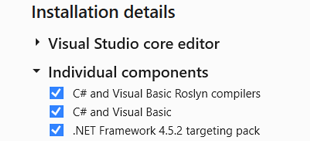
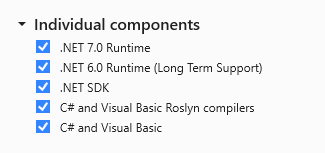
Update docs info to the latest .NET 7

Changed region(s): [[0.0871, 0.2553, 0.8419, 0.9929], [0.0581, 0.0284, 0.6387, 0.227]]

diff --git a/manual/scripting/debugging/visual-studio.md b/manual/scripting/debugging/visual-studio.md
@@ -2,12 +2,13 @@
 
 ![Visual Studio Extension](../../get-started/media/vs.jpg)
 
-You can download Visual Studio [here](https://www.visualstudio.com). We support **Visual Studio 2017, Visual Studio 2019, Visual Studio 2022**.
+You can download Visual Studio [here](https://www.visualstudio.com). We support **Visual Studio 2022** (older versions still work with Flax but the latest .NET SDK 7 doesn't support them).
 
 Flax requries the following components to be installed in order to support C# scripts debugging:
 * C# and Visual Basic Roslyn Compilers
 * C# and Visual Basic
-* .NET Framework 4.5.2 targeting pack (or any other newer framework)
+* .NET 7.0 Runtime (already required by Flax Editor)
+* .NET SDK (already required by Flax Editor)
 
 ![Visual Studio Components for C#](media/vs-components-cs.png)
 
@@ -17,20 +18,14 @@ For C++ scripts debugging platform-dependant toolset is required:
 
 ![Visual Studio Components for C++](media/vs-components-cpp.png)
 
-### 1. Install Visual Studio plugin
-
-Download and install [Flax Engine Tools for Visual Studio](https://marketplace.visualstudio.com/items?itemName=Flax.FlaxVS) which is requried to debug game scripts right inside the VS.
-
-![Flax VS](media/flax-vs.jpg)
-
-### 2. Attach script to actor
+### 1. Attach script to actor
 
 To debug script code it has to be attached to the actor in the scene.
 Simply drag and drop it into the selected actor properties area.
 
 ![Add script](../media/attach-script.gif)
 
-### 3. Open script in Visual Studio
+### 2. Open script in Visual Studio
 
 Double-click on a script item and wait for the IDE to show up.
 
@@ -40,27 +35,33 @@ Ensure to pick a proper solution configuration eg. **Editor.Development** and se
 
 ![Visual Studio Configuration](media/vs-configuration-picker.jpg)
 
-### 4. Add a breakpoint
+### 3. Add a breakpoint
 
 Click on a left side of the code editor to assign a breakpoint to the line. Red dot should be added as shown in the picture below.
 
 ![Add a breakpoint](media/debug-vs-2.jpg)
 
-### 5. Attach to Flax
+### 4. Attach to Flax
 
-Press the `Attach to Flax` button with a green arrow to connect Visual Studio to Flax Editor. Visual Studio should enter a debugging mode and the bottom of the IDE will remain orange. This signifies Visual Studio is ready for debugging.
+Press **Attach to Process** under **Debug** menu in Visual Studio.
 
-![Script in Visual Studio](media/debug-vs-3.jpg)
+![Debugging in Visual Studio](media/vs-attach-to-process-1.png)
+
+It will open an additional window where you can select a process to debug (eg. Flax Editor, cooked game, or game running on a DevKit). After you select the target process click **Attach**. You can search processes by name by using *Filter process* text field or use *Select Window* tool. In most cases, you want to select `FlaxEditor.exe` process that is running a project which you want to debug.
+
+![Debugging in Visual Studio](media/vs-attach-to-process-2.png)
+
+Visual Studio should enter a debugging mode and the bottom of the IDE will remain orange. This signifies Visual Studio is ready for debugging.
 
 ![Debugging in Visual Studio](media/debug-vs-6.jpg)
 
-### 6. Start a game
+### 5. Start a game
 
 Go back to the Flax Editor and press the `Play` button to start a game. Then script *OnUpdate()* function will be called and assigned breakpoint hit.
 
 ![Script in Visual Studio](media/debug-vs-4.jpg)
 
-### 7. Debug your code
+### 6. Debug your code
 
 Now you can use all Visual Studio debugging features to verify state of the variables and test your code.
 

diff --git a/manual/scripting/index.md b/manual/scripting/index.md
@@ -21,8 +21,8 @@ To learn more about build tools and infrastructure see [Flax.Build](../editor/fl
 
 You can write scripts in **C#** and add them to scene objects. To learn more about it see the pages in this section. Most of the documentation related to scripting covers C# to implement various gameplay logic. If you need help with learning C# see [this page](http://www.letmegooglethat.com/?q=C%23+tutorial).
 
-Flax uses [Mono](https://www.mono-project.com) to load, compile and execute C# scripts.
-Currently the newest **C# 7.3** version is fully supported (with .Net Framework 4.5.2). Flax Editor ships with C# Roslyn  Compiler - no need to install any external tools to compile and run C# code.
+Flax uses [.NET](https://dotnet.microsoft.com/en-us) to load, compile and execute C# scripts.
+Currently the newest **C# 11** version is fully supported. Flax Editor requires [.NET SDK 7](https://dotnet.microsoft.com/en-us/download/dotnet/7.0) to be installed on a system.
 
 If you want to use custom .NET libraries use build scripts to reference them as [shown here](tutorials/use-third-party-library.md).
 

diff --git a/manual/editor/flax-build/index.md b/manual/editor/flax-build/index.md
@@ -24,7 +24,7 @@ This documentation section covers most of the topics related to Flax.Build tool.
 
 The main source of build configuration are **.Build.cs** files located in the project `Source` directory. Written in **C#**, scripts can contain targets, modules, SDKs, or other utilities used for building. When generating project scripts files, all build scripts are included in **Rules** project which defines the build rules and can be explored with code IDE.
 
-Build scripts are using C# 7.3 with full .Net 4.5.2 support. Additionally Flax.Build assembly is referenced with many useful utilities to use during build setup like:
+Build scripts are using C# 11 with full .NET 7 support. Additionally Flax.Build assembly is referenced with many useful utilities to use during build setup like:
 * `CommandLine` attribute for command line parsing
 * `Log` utility with info/errors logging capabilities (to log file and to console output)
 * `Tokenizer` class for pasing code as tokens

diff --git a/manual/get-started/linux.md b/manual/get-started/linux.md
@@ -20,10 +20,18 @@ For developers using Flax Editor on Linux platforms the requirements are:
 | Hard drive space | 1 GB minimum |
 | GPU | **Vulkan required** |
 
-Flax Editor needs `curl` and `mono` libs on the system:
+Flax Editor needs:
+
+* `curl` lib on the system:
 
 ```
-apt-get install -y curl libcurl4-gnutls-dev mono-devel
+apt-get install -y curl libcurl4-gnutls-dev
+```
+
+*  `.Net 7 SDK` ([https://dotnet.microsoft.com/en-us/download/dotnet/7.0](https://dotnet.microsoft.com/en-us/download/dotnet/7.0)). Setup can be verified with:
+
+```
+dotnet --version
 ```
 
 *On Fedora you might need additional fix for invalid lib linkage: `sudo ln -s /usr/lib64/libcurl.so.4 /usr/lib64/libcurl-gnutls.so.4`.

diff --git a/manual/get-started/requirements.md b/manual/get-started/requirements.md
@@ -27,7 +27,9 @@ The launcher will check and begin installation if it is missing, however if your
 
 Flax Launcher requires [Microsoft .NET Framework 4.5.2](https://www.microsoft.com/en-us/download/details.aspx?id=42642) or higher.
 
-We also recommend using Visual Studio 2019 or 2022 for writing code.
+Flax Editor requires [.NET SDK 7](ttps://dotnet.microsoft.com/en-us/download/dotnet/7.0).
+
+We also recommend using Visual Studio 2022 for writing code.
 You can download the free community edition [here](https://www.visualstudio.com/downloads/).
 
 ## GPU Drivers

diff --git a/manual/scripting/cpp/index.md b/manual/scripting/cpp/index.md
@@ -23,10 +23,9 @@ Flax Editor contains a build-in C# compiler for scripts but for C\+\+ scripting 
 
 ### Windows
 
-* Install **Visual Studio 2019** or 2022 or 2017 or 2015 ([download](https://visualstudio.microsoft.com/en/vs/community/))
+* Install **Visual Studio 2022** ([download](https://visualstudio.microsoft.com/en/vs/community/))
 * Install **Windows 10 SDK** (or Windows 8.1 SDK)
 * Install **Microsoft Visual C++** (v140 toolset or newer)
-* Install **.Net Framework 4.5.2 SDK/Targeting Pack** (or any other newer)
 
 ### Linux
 

diff --git a/manual/platforms/linux.md b/manual/platforms/linux.md
@@ -2,7 +2,7 @@
 
 ## Technical information
 
-Flax is compiled for Linux platform using **Clang** compiler and uses **X11** for UI. Binaries are tested on Ubuntu 18 and 20.
+Flax is compiled for Linux platform using **Clang** compiler and uses **X11** for UI. Binaries are tested on Ubuntu `22.04`.
 
 If your device has multiple GPUs installed you can select one using the cmd line argument: `-nvidia`, `-intel`, or `-amd`. Flax uses **Vulkan** for rendering.
 

diff --git a/manual/toc.md b/manual/toc.md
@@ -4,7 +4,6 @@
 ### [Requirements](get-started/requirements.md)
 ### [Editor on Linux](get-started/linux.md)
 ### [Editor on Mac](get-started/mac.md)
-## [Visual Studio extension](get-started/vs-extension.md)
 ## [Create a project](get-started/create-a-project.md)
 ## [Editor](get-started/editor.md)
 ### [Flax for UE4® developers](get-started/flax-for-ue4-devs/index.md)
